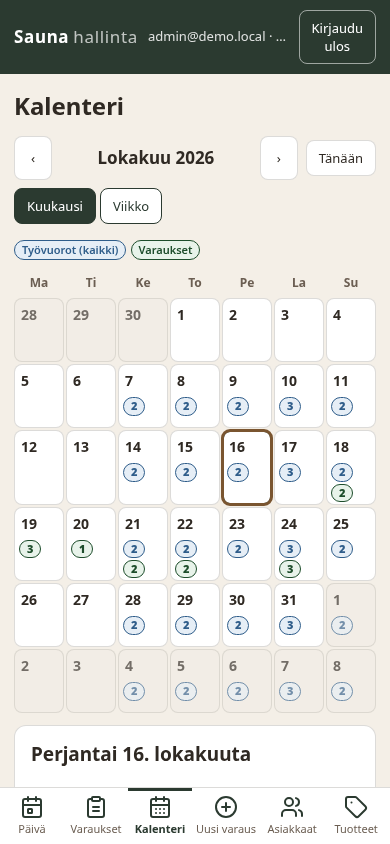
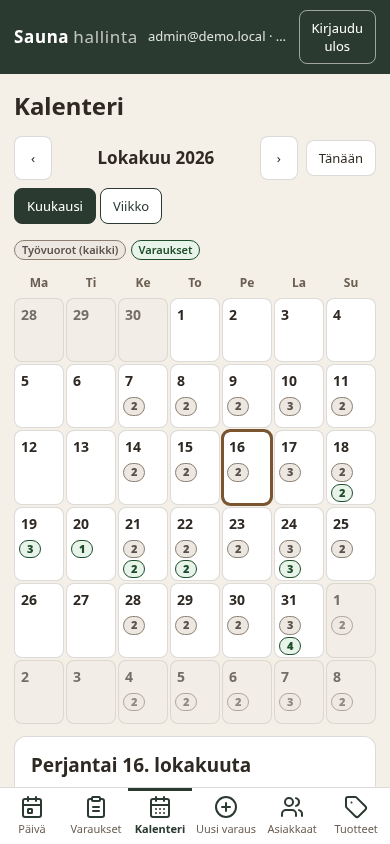
Hallinta: työvuorokorttien roolikohtaiset maavärit

diff --git a/booking/admin/calendar.css b/booking/admin/calendar.css
@@ -1,11 +1,15 @@
-/* Kalenterinäkymä (mobile first). Työvuorot sinisellä, varaukset vihreällä. */
-.cal{--shift:#2f5d8a;--shiftbg:#e6eef6;--book:#1d4d2b;--bookbg:#e8f3ea}
+/* Kalenterinäkymä (mobile first). Varaukset vihreällä; työvuorot hillityillä roolikohtaisilla maaväreillä (ei sinistä):
+   Lämmitykset = hiekka/ruskea, Saunottaja = vaimea vihreä, Vastaanotto = vaimea okra, muu = neutraali beige. */
+.cal{--shift:#5b524a;--shiftbg:#ece8e1;--shiftbar:#8b7f73;--book:#1d4d2b;--bookbg:#e8f3ea;
+  --heater:#6b4a2b;--heaterbg:#efe4d6;--heaterbar:#8a6a4a;
+  --therapist:#1d4d2b;--therapistbg:#e3eadf;--therapistbar:#2b3a30;
+  --reception:#5e4a12;--receptionbg:#f1ead2;--receptionbar:#b08d3c}
 .cal-bar{justify-content:space-between}
 .cal-title{flex:1;min-width:150px;text-align:center;font-size:17px;color:var(--ink);}.cal-title::first-letter,.cal-detail h2::first-letter{text-transform:uppercase}
 .cal-mode{display:inline-flex;gap:4px}.cal-mode .btn[aria-pressed=true]{background:var(--green);color:#fff}
 .cal-legend{margin:0 0 10px}
 .chip{display:inline-block;font-size:11px;font-weight:600;line-height:1.3;padding:2px 7px;border-radius:12px;white-space:nowrap}
-.chip.shift{background:var(--shiftbg);color:var(--shift);border:1px solid var(--shift)}
+.chip.shift{background:var(--shiftbg);color:var(--shift);border:1px solid var(--shiftbar)}
 .chip.booking{background:var(--bookbg);color:var(--book);border:1px solid var(--book)}
 .cal-grid{display:grid;gap:2px}
 .cal-grid.month{grid-template-columns:repeat(7,minmax(0,1fr))}
@@ -25,12 +29,19 @@
 .cal-grid.week .cal-dnum .wd{display:inline}
 .cal-list{list-style:none;margin:0;padding:0;display:grid;gap:6px}
 .cal-item{display:grid;grid-template-columns:auto 1fr auto;gap:8px;align-items:center;padding:6px 8px;border-radius:8px;border-left:5px solid;font-size:14px}
-.cal-item.shift{background:var(--shiftbg);border-color:var(--shift)}
+.cal-item.shift{background:var(--shiftbg);border-color:var(--shiftbar)}
+.cal-item.shift-heater{background:var(--heaterbg);border-color:var(--heaterbar)}
+.cal-item.shift-therapist{background:var(--therapistbg);border-color:var(--therapistbar)}
+.cal-item.shift-reception{background:var(--receptionbg);border-color:var(--receptionbar)}
+.cal-item.shift-other{background:var(--shiftbg);border-color:var(--shiftbar)}
+.cal-item.shift .cal-txt strong{color:var(--ink)}
+.cal-item.shift .badge{background:#fff;border:1px solid rgba(63,53,44,.25)}
+.cal-item.shift .badge.warn{background:var(--warnbg);border-color:#c9a45c}
 .cal-item.booking{background:var(--bookbg);border-color:var(--book)}
 .cal-time{font-weight:700;font-variant-numeric:tabular-nums;color:var(--ink)}
 .cal-txt{text-align:left}
 .cal-detail{margin-top:12px}.cal-detail h2{margin-top:0}
-.cal-detail .shift-h{color:var(--shift)}.cal-detail .booking-h{color:var(--book)}
+.cal-detail .shift-h{color:var(--green)}.cal-detail .booking-h{color:var(--book)}
 .notice{background:var(--warnbg);color:#6b4b00;padding:10px 12px;border-radius:8px;margin:0 0 10px}
 @media (max-width:520px){.cal-item{grid-template-columns:auto 1fr}.cal-item .badge{grid-column:2;justify-self:start}}
 @media (min-width:900px){

diff --git a/booking/admin/views/calendar.js b/booking/admin/views/calendar.js
@@ -15,6 +15,10 @@ const WD = ['Ma', 'Ti', 'Ke', 'To', 'Pe', 'La', 'Su'];
 const ROLE_FI = { heater: 'Lämmitykset', reception: 'Vastaanotto', therapist: 'Saunottaja', saunottaja: 'Saunottaja', hoitaja: 'Saunottaja' };
 const fixRole = (x) => String(x).replace(/\bhoitaja(t)?\b/gi, (_, pl) => (pl ? 'Saunottajat' : 'Saunottaja'));
 export const roleLabel = (s) => ROLE_FI[String(s.role_type || '').toLowerCase()] || fixRole(s.calendar_name || s.role_type || 'Työvuoro');
+// Työvuorokortin väriluokka roolin mukaan (värit: calendar.css)
+const KIND_CLASS = { heater: 'shift-heater', therapist: 'shift-therapist', saunottaja: 'shift-therapist', hoitaja: 'shift-therapist', reception: 'shift-reception' };
+const NAME_CLASS = [[/lämmit/i, 'shift-heater'], [/saunottaja|hoitaja/i, 'shift-therapist'], [/vastaanot/i, 'shift-reception']];   // tuntematon koodi → kalenterin nimestä
+export const shiftClass = (s) => KIND_CLASS[String(s.role_type || '').toLowerCase()] || (NAME_CLASS.find(([re]) => re.test(s.calendar_name || '')) || [])[1] || 'shift-other';
 const STAFFING = { assigned: 'Miehitetty', full: 'Miehitetty', unassigned: 'Avoin', open: 'Avoin', partial: 'Osittain' };
 export const staffingLabel = (v) => STAFFING[String(v).toLowerCase()] || v;
 const staffingTone = (v) => (['open', 'unassigned'].includes(String(v).toLowerCase()) ? 'warn' : 'ok');
@@ -46,7 +50,7 @@ export async function render({ ctx, refs, reload }) {
   }
   const group = (rows, key) => { const m = new Map(); for (const r of rows) { const k = dayKey(r[key]); (m.get(k) || m.set(k, []).get(k)).push(r); } return m; };
 
-  const shiftItem = (s) => h('li', { class: 'cal-item shift', 'data-kind': 'shift' },
+  const shiftItem = (s) => h('li', { class: `cal-item shift ${shiftClass(s)}`, 'data-kind': 'shift' },
     h('span', { class: 'cal-time', text: `${fmtTime(s.starts_at)}–${fmtTime(s.ends_at)}` }),
     h('span', { class: 'cal-txt' }, h('strong', { text: roleLabel(s) }),
       h('br'), h('span', { text: s.names.length ? s.names.join(', ') : 'Ei nimettyä henkilöä' })),

diff --git a/booking/docs/roolit-ja-kb.md b/booking/docs/roolit-ja-kb.md
@@ -83,7 +83,7 @@ Totuus on Google Calendar → Työvuoro-Tapio-synkka → `public.work_shifts`. V
 * palauttaa vain: `shift_id, starts_at, ends_at, role_type, calendar_name, staffing_status, staff_name` (**ei** puhelinta, sähköpostia, muistiinpanoja eikä kalenteri-id:tä); yksi rivi per nimetty työntekijä;
 * enintään 62 päivän aikaväli (muuten virhe `range_too_long`; +1 h liikkumavara kesäaikasiirtymälle), käänteinen/tyhjä väli → `invalid_range`;
 * `shifts.view_all` (admin, manager) näkee kaikki; `shifts.view` (staff) vain omat vuoronsa linkin `booking.staff.public_staff_id` kautta (ei linkkiä → tyhjä lista; omalta vuorolta ei näy kollegojen nimiä); ei kumpaakaan oikeutta → virhe `forbidden`.
-* **Näyttö suomeksi (v10, vain frontend, ei SQL-muutosta):** hallinnan kalenteri (`admin/views/calendar.js`) kartoittaa `role_type`-koodit kiinteästi suomeksi: `heater` → Lämmitykset, `reception` → Vastaanotto, `therapist` → Saunottaja. Tuntemattomalle koodille näytetään `calendar_name` (sana "Hoitaja" → "Saunottaja") tai koodi sellaisenaan. `staffing_status`: `assigned`/`full` → Miehitetty, `unassigned`/`open` → Avoin, `partial` → Osittain (avoin korostetaan keltaisella), muut arvot näytetään sellaisenaan. Koodia ei näytetä käyttäjälle.
+* **Näyttö suomeksi (v10, vain frontend, ei SQL-muutosta):** hallinnan kalenteri (`admin/views/calendar.js`) kartoittaa `role_type`-koodit kiinteästi suomeksi: `heater` → Lämmitykset, `reception` → Vastaanotto, `therapist` → Saunottaja. Tuntemattomalle koodille näytetään `calendar_name` (sana "Hoitaja" → "Saunottaja") tai koodi sellaisenaan. `staffing_status`: `assigned`/`full` → Miehitetty, `unassigned`/`open` → Avoin, `partial` → Osittain (avoin korostetaan keltaisella), muut arvot näytetään sellaisenaan. Koodia ei näytetä käyttäjälle. Työvuorokortin väri määräytyy roolista (`calendar.css`, luokat `.shift-heater`, `.shift-therapist`, `.shift-reception`, `.shift-other`; hillityt maavärit, ei sinistä): Lämmitykset hiekka/ruskea (`#efe4d6` / reuna `#8a6a4a`), Saunottaja vaimea vihreä (`#e3eadf` / `#2b3a30`), Vastaanotto vaimea okra (`#f1ead2` / `#b08d3c`), muu neutraali beige (`#ece8e1` / `#8b7f73`). Teksti vs. tausta ≥ 7,5:1 (WCAG AA vaatii 4,5:1); e2e-testi tarkistaa kontrastin, ettei väri ole sininen ja että roolien värit eroavat.
 
 `public`-taulujen lukuoikeus annetaan vain funktion omistajalle (SECURITY DEFINER): `authenticated`/`anon` eivät saa suoria oikeuksia `public`-tauluihin (testikanta todistaa tämän: mockiin ei anneta GRANTteja).
 
